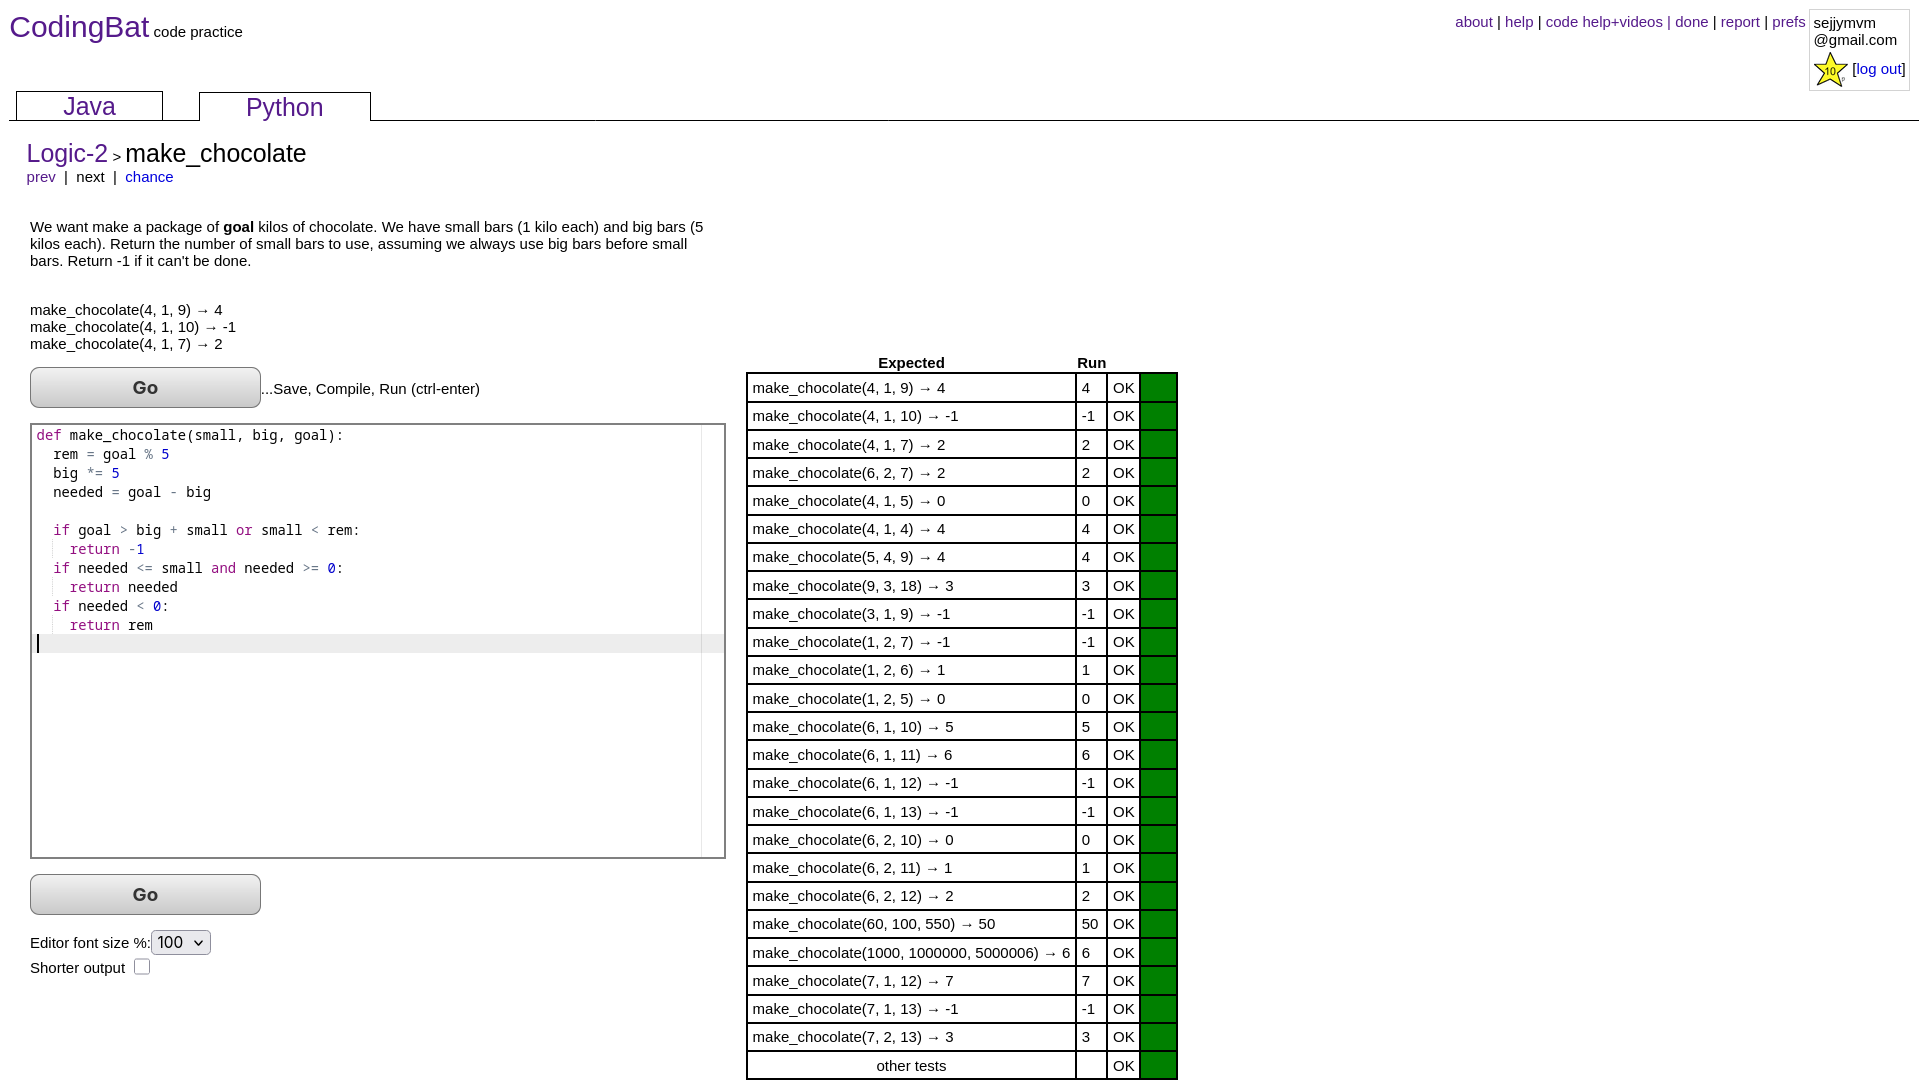
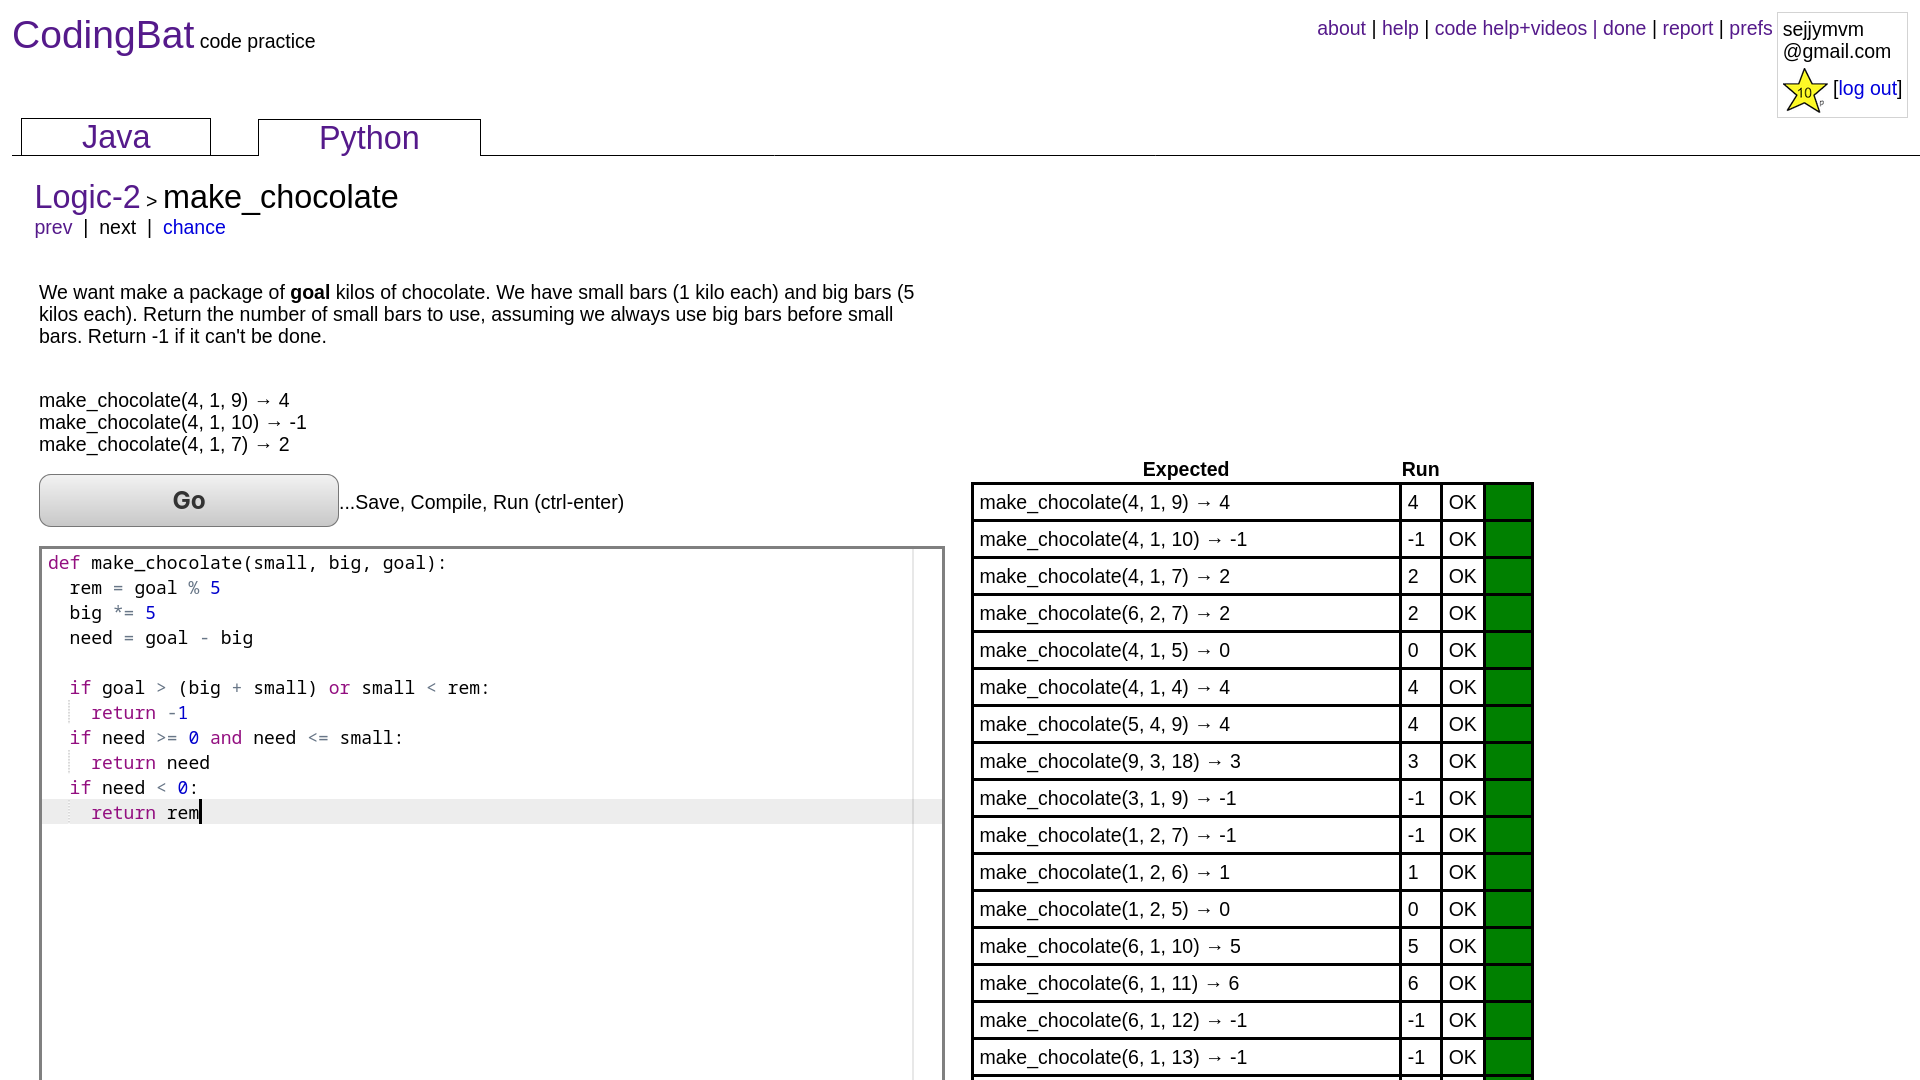
update preview

diff --git a/06-logic-2/07-make_chocolate.py b/06-logic-2/07-make_chocolate.py
@@ -11,13 +11,14 @@
 def make_chocolate(small, big, goal):
   rem = goal % 5
   big *= 5
-  needed = goal - big
+  need = goal - big
 
-  if goal > big + small or small < rem:
+  if goal > (big + small) or small < rem:
     return -1
-  if needed <= small and needed >= 0:
-    return needed
-  if needed < 0:
+  if need >= 0 and need <= small:
+    return need
+  if need < 0:
     return rem
+
 
 # Harder than make_bricks.

diff --git a/README.md b/README.md
@@ -2,9 +2,22 @@
 
 ## codingbat.py
 
-My solutions to CodingBat Python problems
+Solutions to CodingBat Python problems
 
 | ![make_chocolate](./p190859.png) |
 | :------------------------------: |
 
 </div>
+
+#
+
+### Structure
+
+```
+.
+├── 01-warmup-1
+│   ├── 01-sleep_in.py
+│   ├── 02-monkey_trouble.py
+│   └── ...    # other problems
+└── ...    # other sections
+```